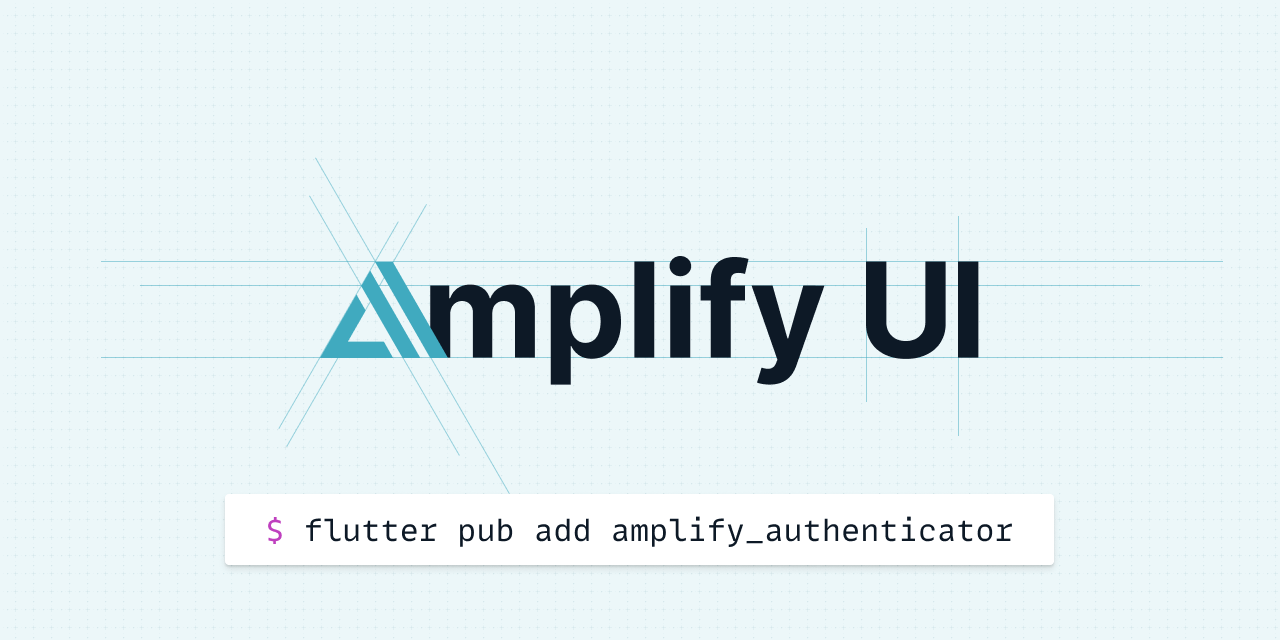
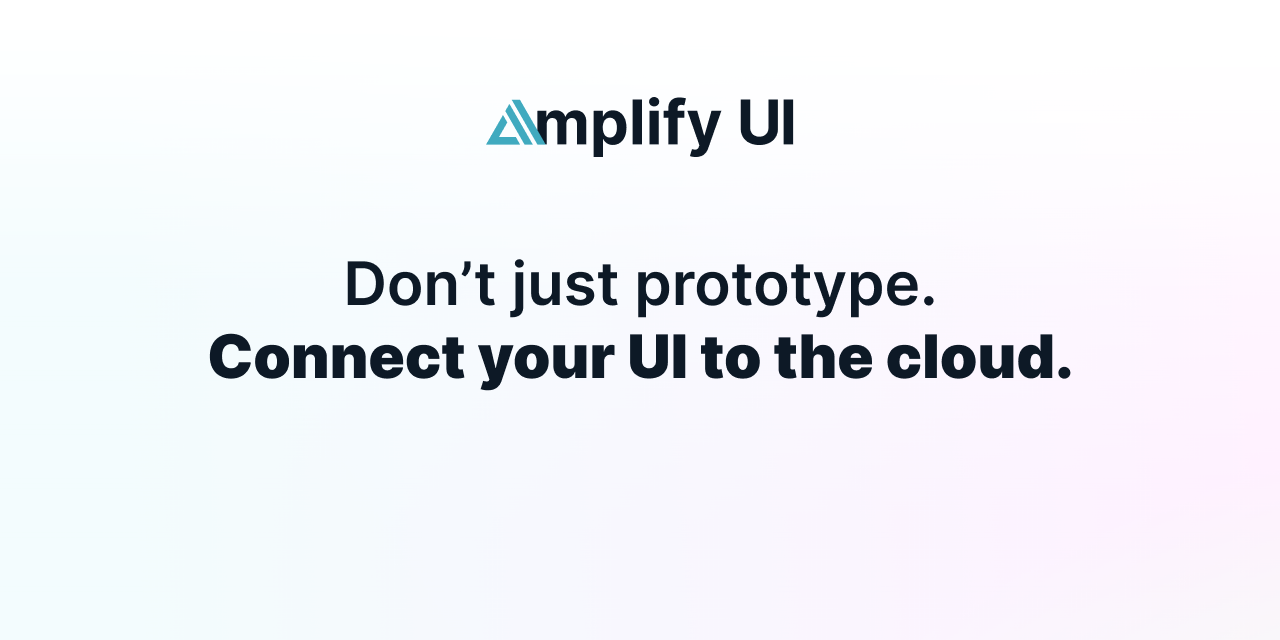
chore(docs): update social image previews

diff --git a/docs/scripts/generate-previews.ts b/docs/scripts/generate-previews.ts
@@ -92,7 +92,7 @@ export const drawSocialPreview = async (
 
   // Draw Preview title
   drawText(context, title, {
-    positionX: 40,
+    positionX: PREVIEW_MARGIN,
     positionY: 360,
     font: 'bold 64pt Inter, Microsoft Sans Serif, sans-serif',
     fillStyle: '#0D1A26',
@@ -102,7 +102,7 @@ export const drawSocialPreview = async (
   // Draw Preview description
   if (description) {
     drawText(context, description, {
-      positionX: 40,
+      positionX: PREVIEW_MARGIN,
       positionY: 420,
       font: 'light 20pt Inter, Microsoft Sans Serif, sans-serif',
       fillStyle: PREVIEW_TEXT_COLOR,
@@ -112,7 +112,7 @@ export const drawSocialPreview = async (
 
   // Draw Preview URL
   drawText(context, text, {
-    positionX: 40,
+    positionX: PREVIEW_MARGIN,
     positionY: 550,
     font: 'light 20pt Consolas, monoco, monospace',
     fillStyle: PREVIEW_LINK_COLOR,

diff --git a/docs/src/data/preview.ts b/docs/src/data/preview.ts
@@ -1,6 +1,6 @@
 export const PREVIEW_WIDTH = 1280;
 export const PREVIEW_HEIGHT = 640;
-export const PREVIEW_MARGIN = 40;
+export const PREVIEW_MARGIN = 100;
 export const PREVIEW_TEXT_COLOR = '#0D1A26';
 export const PREVIEW_BACKGROUND_COLOR = '#FFFFFF';
 export const PREVIEW_LINK_COLOR = '#666666';
